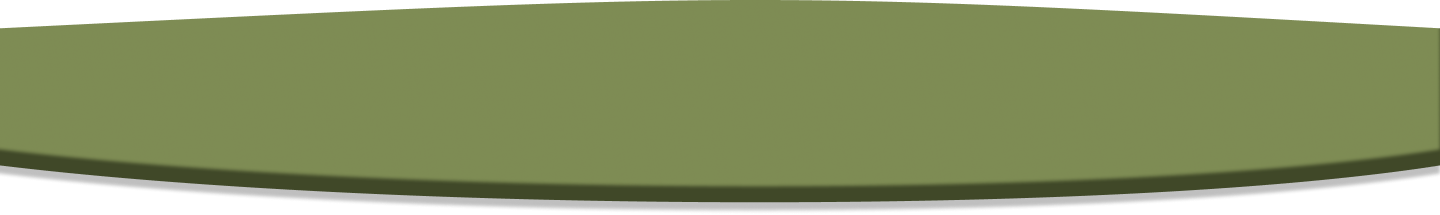
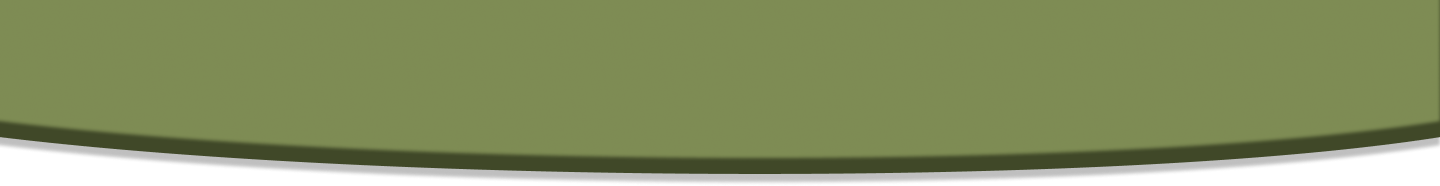
landing page assets and updates

Changed region(s): [[0.0, 0.6452, 1.0, 0.9409], [0.0, 0.0, 0.5, 0.1344], [0.5625, 0.0, 1.0, 0.1344]]

diff --git a/app/page.tsx b/app/page.tsx
@@ -2,15 +2,26 @@
 
 import Link from 'next/link';
 import React from 'react';
+import Image from 'next/image';
 
 export default function LandingPage(): React.JSX.Element {
+  
+  const techLogos = [
+    { name: "Next.js", src: "/images/next.png" },
+    { name: "Tailwind CSS", src: "/images/tailwind.png" },
+    { name: "Supabase", src: "/images/supabase.png" },
+    { name: "TensorFlow", src: "/images/tensorflow.png" },
+    { name: "Teachable Machine", src: "/images/teachable.png" },
+    { name: "Vercel", src: "/images/vercel.png" },
+    { name: "Node.js", src: "/images/node.png" },
+    { name: "React", src: "/images/react.png" },
+    { name: "Figma", src: "/images/figma.png" },
+  ];
+
   return (
     <div className="bg-white">
-      {/* 
-        MAIN WRAPPER 
-        overflow-hidden keeps the massive rings from breaking the screen width
-      */}
-      <main className="relative bg-white text-[#4A4A4A] font-sans overflow-hidden">
+      
+      <main className="relative bg-white text-[#4A4A4A] font-sans">
 
         <style>{`
           @keyframes spin {
@@ -23,128 +34,226 @@ export default function LandingPage(): React.JSX.Element {
             to { transform: translate(-50%, -50%) rotate(0deg); }
           }
 
+          @keyframes marquee {
+            0% { transform: translateX(0); }
+            100% { transform: translateX(-50%); }
+          }
+
           .spin-inner { animation: spin 100s linear infinite; }
           .spin-outer { animation: spin-reverse 140s linear infinite; }
+          .animate-marquee { animation: marquee 30s linear infinite; }
+
+          .unzoomable {
+            user-select: none;
+            -webkit-user-drag: none;
+            touch-action: none;
+            pointer-events: none;
+          }
         `}</style>
 
-        {/* --- BACKGROUND RINGS LAYER --- */}
-        {/* Locked to top-[50vh] so they stay perfectly centered in the first screen */}
-        <div className="absolute top-0 left-0 w-full h-full pointer-events-none z-0">
-          <img
-            src="/images/Group 8.png"
-            alt="Outer floating items"
-            className="absolute top-[50vh] left-1/2 w-[155vw] max-w-[1800px] object-contain spin-outer opacity-90"
-          />
-          <img
-            src="/images/Group 7.png"
-            alt="Inner floating items"
-            className="absolute top-[50vh] left-1/2 w-[90vw] max-w-[1000px] object-contain spin-inner"
-          />
+        {/* --- HERO WRAPPER --- */}
+        <div className="relative w-full min-h-screen overflow-hidden">
           
-          <div
-            className="absolute top-[50vh] left-1/2 -translate-x-1/2 -translate-y-1/2 w-[850px] h-[850px] rounded-[50%] pointer-events-none z-[5]"
-            style={{
-              background: 'radial-gradient(ellipse at center, rgba(255,255,255,1) 100%, rgba(255,255,255,0) 0%)',
-              filter: 'blur(100px)'
-            }}
-          ></div> 
-        </div>
+          {/* --- BACKGROUND RINGS LAYER --- */}
+          <div className="absolute top-0 left-0 w-full h-full pointer-events-none z-0">
+            <img
+              src="/images/Group 8.png"
+              alt="Outer floating items"
+              className="absolute top-[50vh] left-1/2 w-[155vw] max-w-[1800px] object-contain spin-outer opacity-90 unzoomable"
+            />
+            <img
+              src="/images/Group 7.png"
+              alt="Inner floating items"
+              className="absolute top-[50vh] left-1/2 w-[90vw] max-w-[1000px] object-contain spin-inner unzoomable"
+            />
+            
+            <div
+              className="absolute top-[50vh] left-1/2 -translate-x-1/2 -translate-y-1/2 w-[850px] h-[850px] rounded-[50%] pointer-events-none z-[5]"
+              style={{
+                background: 'radial-gradient(ellipse at center, rgba(255,255,255,1) 100%, rgba(255,255,255,0) 0%)',
+                filter: 'blur(100px)'
+              }}
+            ></div> 
+          </div>
 
-        {/* --- HERO CONTENT --- */}
-        {/* min-h-screen guarantees this takes the first full view, sending the rest down */}
-        <div className="relative z-10 w-full min-h-screen flex flex-col items-center justify-center text-center gap-6 px-6">
-          <span className="uppercase tracking-[2px] text-[#7C8D58] text-xl font-bold">
-            RECICLA
-          </span>
+          {/* --- HERO CONTENT --- */}
+          <div className="relative z-10 w-full min-h-screen flex flex-col items-center justify-center text-center gap-6 px-6">
+            <span className="uppercase tracking-[2px] text-[#7C8D58] text-xl font-bold">
+              RECICLA
+            </span>
 
-          <h1 className="text-4xl md:text-5xl lg:text-6xl font-bold tracking-tight text-[#4A4A4A] leading-[1.2] mb-4">
-            Recycle from anywhere,<br />Value from anything
-          </h1>
+            <h1 className="text-4xl md:text-5xl lg:text-6xl font-bold tracking-tight text-[#4A4A4A] leading-[1.2] mb-4">
+              Recycle from anywhere,<br />Value from anything
+            </h1>
 
-          <Link
-            href="/scan"
-            className="mt-2 bg-[#7C8D58] text-white font-semibold rounded-[30px] px-10 py-[15px] shadow-[inset_0px_-3px_0px_rgba(0,0,0,0.2),_0px_4px_10px_rgba(0,0,0,0.1)] transition-transform duration-200 transition-colors hover:bg-[#6a794b] hover:-translate-y-0.5 active:translate-y-[1px] active:shadow-[inset_0px_2px_5px_rgba(0,0,0,0.3)]"
-          >
-            Get Started
-          </Link>
+            <Link
+              href="/scan"
+              className="mt-2 bg-[#7C8D58] text-white font-semibold rounded-[30px] px-10 py-[15px] shadow-[inset_0px_-3px_0px_rgba(0,0,0,0.2),_0px_4px_10px_rgba(0,0,0,0.1)] transition-transform duration-200 transition-colors hover:bg-[#6a794b] hover:-translate-y-0.5 active:translate-y-[1px] active:shadow-[inset_0px_2px_5px_rgba(0,0,0,0.3)]"
+            >
+              Get Started
+            </Link>
+          </div>
         </div>
 
         {/* --- ABOUT CONTENT --- */}
-        {/* mt-48 creates a huge empty space before the About section starts */}
         <div className="relative z-10 w-full mt-48 pb-32">
-          
-          {/* Image Container for Rectangle 50.png */}
-          <div className="relative w-full flex items-center justify-center">
+          <div className="relative w-full flex items-center justify-center overflow-hidden">
             <img
               src="/images/Rectangle 50.png"
               alt="About Section Header"
-              className="w-[110%] max-w-none h-auto drop-shadow-xl"
+              className="w-[110%] max-w-none h-auto drop-shadow-xl unzoomable"
             />
             <h2 className="absolute inset-0 flex items-center justify-center text-white text-3xl md:text-5xl font-bold tracking-tight mb-4">
               About Recicla
             </h2>
           </div>
 
-          {/* Description Text */}
           <div className="container mx-auto px-6 mt-16 max-w-4xl text-center">
             <p className="text-[#4A4A4A] text-lg md:text-xl leading-relaxed font-medium">
-              Recicla is a real-time, AI-driven web application designed to bridge the gap between
-              waste segregation and financial incentive. By leveraging high-speed, client-side
-              object detection, Recicla empowers users to instantly identify the value and risks
-              of their household waste. We focus specifically on the untapped potential of
-              e-waste and precious metal recovery, transforming the act of "throwing things away"
-              into a deliberate step toward environmental sustainability and personal profit.
+              Recicla is a real-time, AI-driven web application designed to bridge the gap between waste segregation and financial incentive. By leveraging high-speed, client-side object detection, Recicla empowers users to instantly identify the value and risks of their household waste. We focus specifically on the untapped potential of e-waste and precious metal recovery, transforming the act of "throwing things away" into a deliberate step toward environmental sustainability and personal profit
             </p>
           </div>
         </div>
-      {/* --- FEATURES SECTION --- */}
+
+        {/* --- FEATURES SECTION --- */}
         <section className="relative z-10 container mx-auto px-6 mb-32 max-w-6xl">
           <div className="flex flex-col md:flex-row overflow-hidden rounded-[40px] shadow-2xl border border-gray-100">
-            
-            {/* LEFT SIDE - Back to 1/2 width so the right side doesn't shrink */}
             <div className="w-full md:w-1/2 flex flex-col">
-              {/* Tile 1 - py-8 makes it shorter than the original py-12 */}
               <div className="bg-[#81915A] py-8 px-10 flex flex-col items-center justify-center text-center gap-4 border-b border-white">
-                <img src="/images/Frame 59.png" alt="AI Icon" className="w-26 h-26 object-contain" />
+                <img src="/images/Frame 59.png" alt="AI Icon" className="w-26 h-26 object-contain unzoomable" />
                 <h3 className="text-white font-bold text-lg md:text-xl uppercase tracking-wider">Zero-Latency AI</h3>
               </div>
-              
-              {/* Tile 2 */}
               <div className="bg-[#455130] py-8 px-10 flex flex-col items-center justify-center text-center gap-4 border-b border-white">
-                <img src="/images/Frame 60.png" alt="Valuation Icon" className="w-26 h-26 object-contain" />
-                <h3 className="text-white font-bold text-lg md:text-xl uppercase tracking-wider">Instant Scrap Valuation</h3>
+                <img src="/images/Frame 60.png" alt="Valuation Icon" className="w-26 h-26 object-contain unzoomable" />
+                <h3 className="text-white font-bold text-lg md:text-xl uppercase tracking-wider">Instant Valuation</h3>
               </div>
-              
-              {/* Tile 3 */}
               <div className="bg-[#3D4829] py-8 px-10 flex flex-col items-center justify-center text-center gap-4 border-b border-white">
-                <img src="/images/Frame 61.png" alt="Routing Icon" className="w-26 h-26 object-contain" />
-                <h3 className="text-white font-bold text-lg md:text-xl uppercase tracking-wider">Hazard-First Routing</h3>
+                <img src="/images/Frame 61.png" alt="Routing Icon" className="w-26 h-26 object-contain unzoomable" />
+                <h3 className="text-white font-bold text-lg md:text-xl uppercase tracking-wider">Hazard Routing</h3>
               </div>
-              
-              {/* Tile 4 */}
               <div className="bg-[#353D22] py-8 px-10 flex flex-col items-center justify-center text-center gap-4">
-                <img src="/images/Frame 62.png" alt="Web Icon" className="w-26 h-26 object-contain" />
-                <h3 className="text-white font-bold text-lg md:text-xl uppercase tracking-wider">Frictionless Web Access</h3>
+                <img src="/images/Frame 62.png" alt="Web Icon" className="w-26 h-26 object-contain unzoomable" />
+                <h3 className="text-white font-bold text-lg md:text-xl uppercase tracking-wider">Frictionless Access</h3>
               </div>
             </div>
 
-            {/* RIGHT SIDE - Back to 1/2 width */}
             <div className="w-full md:w-1/2 relative bg-[#E8E6D9] min-h-[500px] flex items-end">
               <img 
                 src="/images/feature-person.png" 
                 alt="Feature showcase" 
-                className="absolute inset-0 w-full h-full object-cover"
+                className="absolute inset-0 w-full h-full object-cover unzoomable"
               />
-              
               <div className="relative z-10 w-full p-8 md:p-12 pt-32 bg-gradient-to-t from-[#f1f0e8] via-[#f1f0e8]/90 to-transparent text-center">
                 <p className="text-[#4A4A4A] text-xl md:text-2xl font-medium leading-tight max-w-md mx-auto">
-                  No Waiting For Server Uploads. Our Lightweight TensorFlow.Js Model Runs Directly In Your Browser For Instant Identification.
+                  Our Model Runs Directly In Your Browser For Instant Identification.
                 </p>
               </div>
             </div>
-
           </div>
         </section>
+
+        {/* --- HOW IT WORKS --- */}
+        <section 
+          className="max-w-[90rem] mx-auto px-6 md:px-12 py-32 flex flex-col md:flex-row gap-20 relative items-start perspective-[1000px]"
+        >
+          <div className="sticky-box w-full md:w-5/12 self-start md:sticky md:top-40 h-auto">
+            <div className="w-full py-10 md:py-0"> 
+              <div className="text-xs md:text-sm tracking-widest uppercase text-[#7C8D58] font-bold mb-8 flex items-center gap-4">
+                How It Works
+              </div>
+              <h2 className="text-4xl md:text-7xl font-bold leading-[1.1] text-[#4A4A4A] tracking-tighter mb-8">
+                Three Simple Steps To <br />
+                <span className="text-[#7C8D58]">A Cleaner Planet.</span>
+              </h2>
+              <p className="text-xl text-gray-600 font-light leading-relaxed max-w-md">
+                Recicla simplifies the path from waste to wealth.
+              </p>
+            </div>
+          </div>
+
+          <div className="w-full md:w-7/12 flex flex-col gap-32 md:pb-[10vh]">
+            {[
+              { num: "01", title: "The Scan", desc: "Open the Recicla Web App and point your camera at any item.", img: "/images/step-1.png" },
+              { num: "02", title: "The Value Check", desc: "The app overlays a dynamic 'Value Card' that displays the item's current local scrap price.", img: "/images/step-2.png" },
+              { num: "03", title: "The Drop-Off", desc: "With one tap, Recicla maps out the nearest verified destination.", img: "/images/step-3.png" }
+            ].map((step, idx) => (
+              <div key={idx} className="reveal-up group">
+                <div className="aspect-[4/3] bg-gray-100 overflow-hidden rounded-[30px] mb-8 relative cursor-pointer shadow-lg">
+                  <Image src={step.img} alt={step.title} fill className="object-cover transition-transform duration-700 group-hover:scale-105 unzoomable" />
+                  <div className="absolute inset-0 bg-black/5 group-hover:bg-transparent transition-colors duration-500"></div>
+                </div>
+                <div className="flex gap-8 items-start border-b border-gray-100 pb-8">
+                  <div className="text-4xl font-bold text-[#7C8D58]">{step.num}</div>
+                  <div>
+                    <h3 className="text-3xl font-bold mb-4 text-[#4A4A4A]">{step.title}</h3>
+                    <p className="text-gray-500 font-light text-lg leading-relaxed">{step.desc}</p>
+                  </div>
+                </div>
+              </div>
+            ))}
+          </div>
+        </section>
+
+        {/* --- MEET OUR TEAM --- */}
+        {/* Changed z-10 to z-20 and added a custom dark bottom shadow */}
+        <section className="relative z-20 bg-[#76864C] py-24 md:py-32 shadow-[0_20px_40px_-15px_rgba(0,0,0,0.5)]">
+          <div className="container mx-auto px-6">
+            <h2 className="text-white text-4xl md:text-6xl font-bold text-center mb-20 tracking-tight">
+              Meet Our Team
+            </h2>
+            <div className="grid grid-cols-1 sm:grid-cols-2 md:grid-cols-4 gap-12 md:gap-8">
+              {[
+                { name: "Bam", role: "AI Engineer", img: "/images/team-bam.png" },
+                { name: "Jude", role: "Full-Stack Developer", img: "/images/team-jude.png" },
+                { name: "Volt", role: "UI / UX Designer", img: "/images/team-volt.png" },
+                { name: "Sai", role: "Project Manager", img: "/images/team-sai.png" }
+              ].map((member, idx) => (
+                <div key={idx} className="flex flex-col items-center text-center group">
+                  <div className="w-48 h-48 md:w-56 md:h-56 bg-[#D9D9D9] rounded-full mb-6 overflow-hidden relative shadow-lg">
+                    <Image src={member.img} alt={member.name} fill className="object-cover transition-transform duration-500 group-hover:scale-110" />
+                  </div>
+                  <h3 className="text-white text-2xl font-bold mb-1">{member.name}</h3>
+                  <p className="text-white/90 text-lg font-light">{member.role}</p>
+                </div>
+              ))}
+            </div>
+          </div>
+          
+          {/* Optional: You can keep this inner dark rim, or remove it if the new outer shadow is enough */}
+          <div className="absolute bottom-0 left-0 w-full h-6 bg-[#4B5320] blur-[2px]"></div>
+        </section>
+
+        {/* --- MARQUEE TECH STACK SECTION --- */}
+        <section className="relative z-10 py-20 bg-white overflow-hidden">
+          <div className="container mx-auto px-6 text-center mb-12">
+            <h2 className="text-2xl md:text-4xl font-bold text-[#4A4A4A] tracking-tight">
+              Built Fast With A Zero-Latency, Zero-Cost Architecture
+            </h2>
+          </div>
+          
+          {/* Applied mask-image inline styles to fade the left and right edges */}
+          <div 
+            className="relative flex overflow-hidden group"
+            style={{
+              maskImage: 'linear-gradient(to right, transparent, black 15%, black 85%, transparent)',
+              WebkitMaskImage: 'linear-gradient(to right, transparent, black 15%, black 85%, transparent)'
+            }}
+          >
+            <div className="flex animate-marquee whitespace-nowrap items-center py-4">
+              {[...techLogos, ...techLogos].map((logo, index) => (
+                <div key={index} className="mx-8 md:mx-12 flex-shrink-0">
+                  <img 
+                    src={logo.src} 
+                    alt={logo.name} 
+                    /* Removed the grayscale and opacity classes to keep it full color */
+                    className="h-8 md:h-12 w-auto transition-transform duration-300 hover:scale-110 unzoomable" 
+                  />
+                </div>
+              ))}
+            </div>
+          </div>
+        </section>
+
       </main>
     </div>
   );